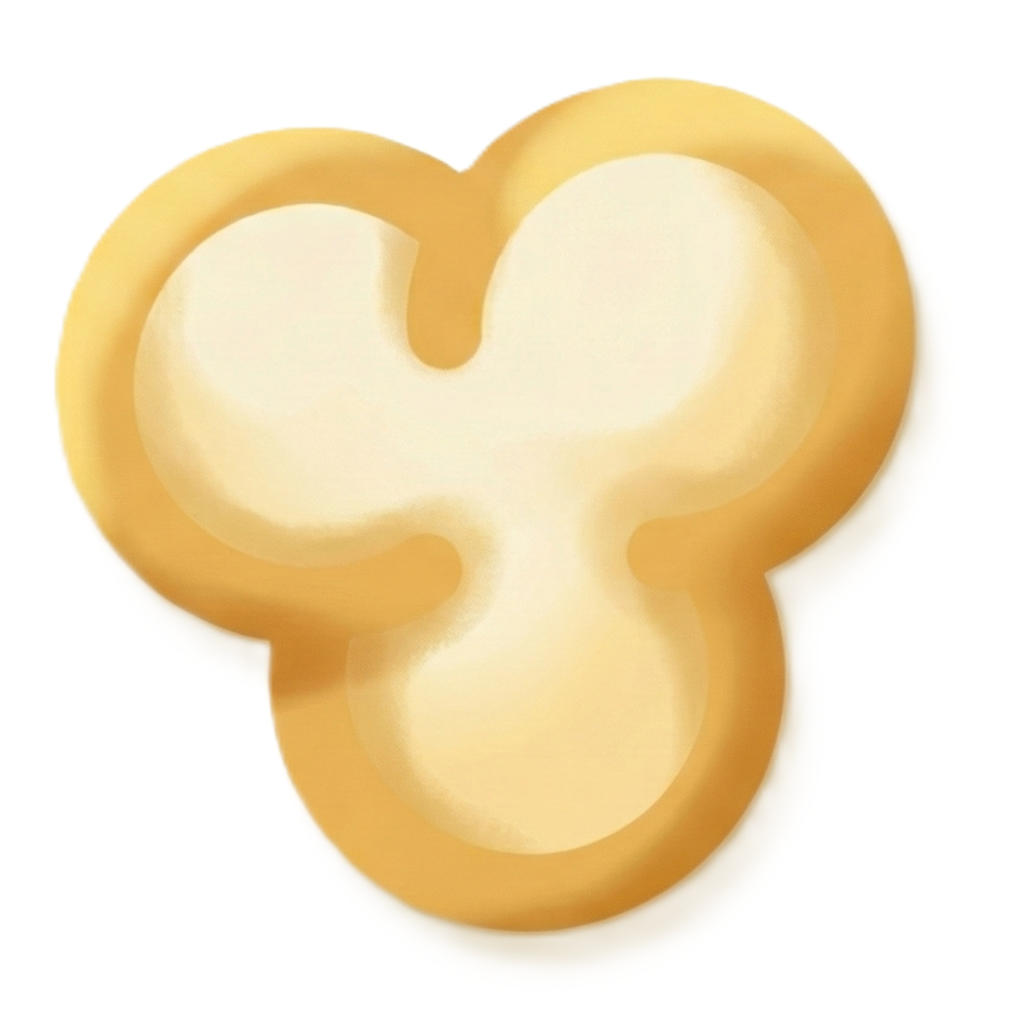
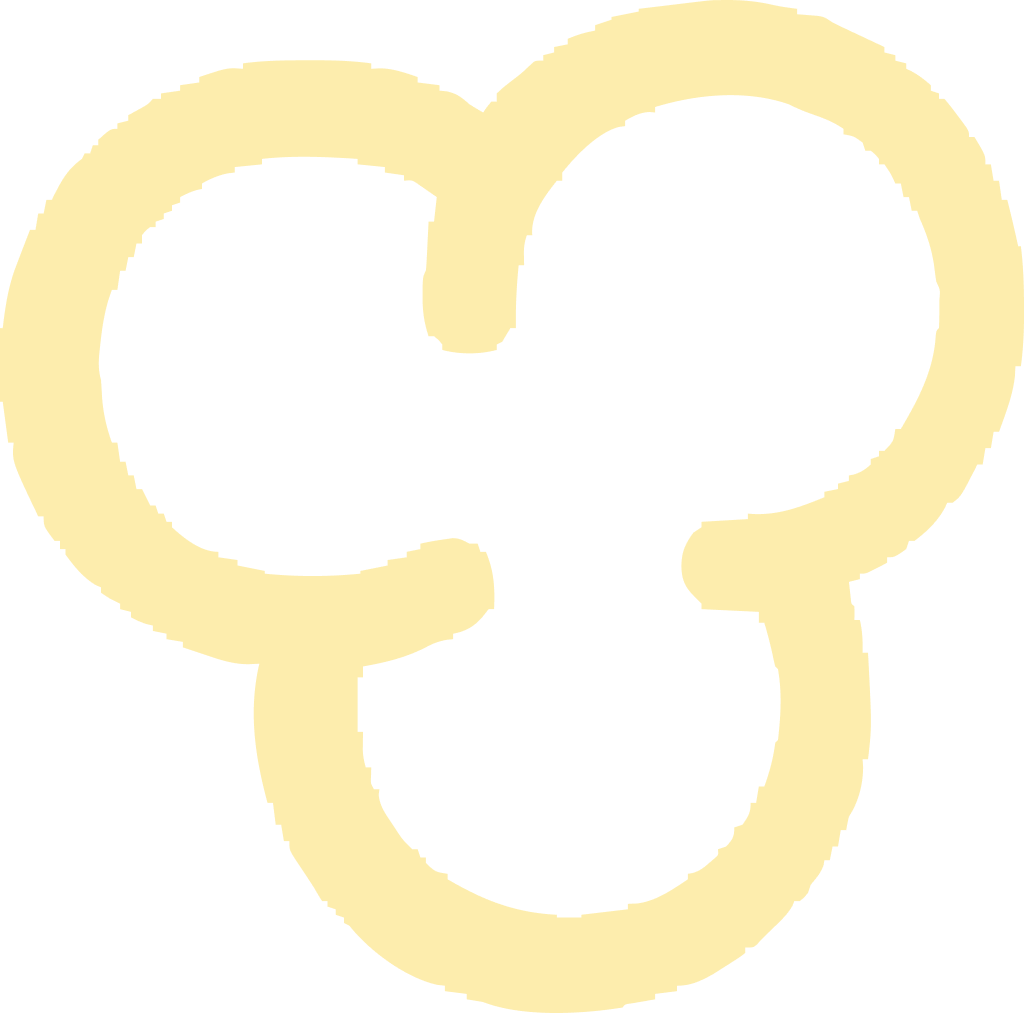
chore: release version 1.0.13

diff --git a/apps/desktop/src/components/SplashScreen.tsx b/apps/desktop/src/components/SplashScreen.tsx
@@ -1,5 +1,4 @@
 import React, { useEffect, useState } from 'react';
-import logo from '../assets/logo.png';
 
 interface SplashScreenProps {
     isReady: boolean;
@@ -9,11 +8,13 @@ interface SplashScreenProps {
 const SplashScreen: React.FC<SplashScreenProps> = ({ isReady, onComplete }) => {
     const [minTimeElapsed, setMinTimeElapsed] = useState(false);
     const [isVisible, setIsVisible] = useState(true);
+    const [fillLogo, setFillLogo] = useState(false);
 
     useEffect(() => {
         // Minimum time to show splash (e.g. 2s)
         const timeout = setTimeout(() => {
             setMinTimeElapsed(true);
+            setFillLogo(true); // Trigger fill after drawing
         }, 2000);
         return () => clearTimeout(timeout);
     }, []);
@@ -21,9 +22,13 @@ const SplashScreen: React.FC<SplashScreenProps> = ({ isReady, onComplete }) => {
     useEffect(() => {
         // Only start fade out when both data is ready AND min time elapsed
         if (isReady && minTimeElapsed) {
-            setIsVisible(false);
-            const t = setTimeout(onComplete, 500); // Wait for transition
-            return () => clearTimeout(t);
+            // Wait a bit for the fill animation to be enjoyed
+            const exitDelay = setTimeout(() => {
+                setIsVisible(false);
+                const t = setTimeout(onComplete, 500); // Wait for transition
+                return () => clearTimeout(t);
+            }, 1200);
+            return () => clearTimeout(exitDelay);
         }
     }, [isReady, minTimeElapsed, onComplete]);
 
@@ -38,47 +43,40 @@ const SplashScreen: React.FC<SplashScreenProps> = ({ isReady, onComplete }) => {
             transition: 'opacity 0.5s ease-in-out',
             pointerEvents: 'none'
         }}>
-            <div style={{ position: 'relative', width: '300px' }}>
-                <img
-                    src={logo}
-                    alt="Popcorn"
+            <div style={{ position: 'relative', width: '300px', height: '300px' }}>
+                <svg
+                    viewBox="0 0 87.698227 44.908371"
+                    fill="none"
+                    xmlns="http://www.w3.org/2000/svg"
                     style={{
                         width: '100%',
-                        objectFit: 'contain',
-                        filter: 'drop-shadow(0 0 20px rgba(229, 9, 20, 0.3))'
+                        height: '100%',
+                        filter: 'drop-shadow(0 0 20px rgba(242, 180, 140, 0.35))'
                     }}
-                />
-
-                {/* Shimmer Effect */}
-                <div className="logo-shimmer" style={{
-                    position: 'absolute', top: 0, left: 0, width: '100%', height: '100%',
-                    background: 'linear-gradient(to right, transparent 0%, rgba(255,255,255,0.1) 40%, rgba(255,255,255,0.4) 50%, rgba(255,255,255,0.1) 60%, transparent 100%)',
-                    transform: 'skewX(-20deg) translateX(-150%)',
-                    animation: 'shimmer 2s infinite',
-                    pointerEvents: 'none',
-                    mixBlendMode: 'overlay'
-                }} />
+                >
+                    <g transform="translate(-61.821707,-127.98417)">
+                        <path
+                            d="m 71.484686,172.64451 c -0.167485,-0.16749 -0.304949,-0.37346 -0.305473,-0.45771 -5.25e-4,-0.0843 -0.07809,-0.73853 -0.17237,-1.45395 -0.09428,-0.71541 -0.279348,-2.31179 -0.411267,-3.54751 -0.131919,-1.23572 -0.397605,-3.6569 -0.590415,-5.3804 -0.609808,-5.45103 -1.426506,-14.21467 -1.426506,-15.30725 0,-1.0769 -1.123242,-0.26347 -3.896905,2.82208 -1.807817,2.01109 -2.249633,2.20699 -2.676011,1.18652 -0.612076,-1.4649 0.258227,-2.88091 3.281088,-5.33845 7.457883,-6.06313 14.586228,-6.74021 17.412649,-1.65394 2.89851,5.216 -0.553872,11.73088 -8.563767,16.1604 -0.617462,0.34146 -1.132981,0.62941 -1.145597,0.6399 -0.02135,0.0177 0.171803,1.35937 0.784945,5.45213 0.38107,2.54367 0.577878,3.68085 0.854366,4.93663 0.299675,1.36109 0.256971,1.46142 -0.788565,1.8526 -1.110012,0.41531 -1.996349,0.44877 -2.356172,0.089 z m 2.269443,-14.82123 c 8.080209,-4.88112 9.672109,-14.10988 2.641815,-15.31544 -1.696548,-0.29093 -5.508666,0.81911 -5.282173,1.53809 0.03444,0.10934 0.143648,1.13002 0.242676,2.26819 0.271704,3.12277 1.146244,10.99147 1.310972,11.79549 0.07038,0.34351 0.02372,0.3558 1.08671,-0.28633 z m 23.917005,11.89092 c -0.63393,-0.13231 -0.79882,-0.43284 -0.88466,-1.61241 -0.36772,-5.05323 -1.59562,-13.39189 -1.97201,-13.39189 -0.0537,0 -0.19953,0.19955 -0.32407,0.44344 -0.26293,0.51492 -1.44727,1.68188 -1.9937,1.96445 -0.40323,0.20852 -0.43073,0.29279 -0.56479,1.73088 -0.49774,5.3392 -5.49294,7.75834 -7.567303,3.66478 -1.31476,-2.59455 -1.028179,-7.2888 0.54076,-8.85774 0.190642,-0.19064 0.346621,-0.44669 0.346621,-0.569 0,-0.8174 1.043028,-1.99575 2.133235,-2.41 2.336331,-0.88773 3.914999,0.72916 4.547087,4.65718 0.13152,0.81733 1.291,-0.19114 2.04484,-1.77851 0.471,-0.99178 0.4017,-1.51839 -0.6443,-4.89617 -0.48177,-1.55576 -0.47305,-1.64867 0.1862,-1.985 1.49024,-0.76026 2.37391,-0.0738 2.79508,2.17114 0.12315,0.65646 0.22195,0.60802 0.68953,-0.33807 1.41143,-2.85583 4.416466,-3.89174 6.180886,-2.1307 3.62723,3.62029 1.16122,12.24231 -3.594436,12.56736 -1.5814,0.1081 -1.83959,-1.33175 -0.28261,-1.57602 2.789686,-0.43767 4.382876,-6.33195 2.340276,-8.65834 -1.36937,-1.55963 -2.998236,-0.66403 -3.923376,2.15718 -0.58179,1.77415 -0.59852,2.062 -0.25082,4.31615 0.16552,1.07312 0.51868,3.38787 0.78478,5.1439 0.26611,1.75602 0.63784,4.15059 0.82607,5.32127 0.54273,3.37548 0.53743,3.28539 0.21515,3.66006 -0.31765,0.36929 -0.99516,0.53823 -1.62844,0.40606 z m -9.2666,-7.39404 c 0.749664,-0.35573 1.307669,-1.53785 1.572508,-3.33131 0.160551,-1.08723 0.196354,-1.04648 -0.973234,-1.10787 -1.203313,-0.0632 -1.919286,-0.37568 -2.705888,-1.18112 -0.641071,-0.65642 -0.691186,-0.6125 -0.691186,0.60574 0,3.28436 1.348938,5.70209 2.7978,5.01456 z m 1.598435,-6.42775 c -0.260153,-2.8215 -1.436464,-4.50778 -2.442639,-3.5016 -0.968353,0.96835 -0.130639,3.23435 1.399152,3.78467 0.806489,0.29012 1.089264,0.21341 1.043487,-0.28307 z m 19.253871,-1.41369 c -5.41277,-1.07315 -4.14003,-13.17913 1.4279,-13.58188 1.73629,-0.12559 3.00892,2.57404 2.11797,4.49284 -0.58196,1.25336 -2.11974,0.537 -1.8232,-0.84932 0.56269,-2.63059 -0.76545,-3.05006 -2.04125,-0.64469 -1.8336,3.45704 -0.83268,8.56747 1.67801,8.56747 2.40087,0 4.44039,-3.29725 4.49837,-7.2724 0.0392,-2.68599 0.45927,-4.30399 1.35804,-5.23053 0.17459,-0.17999 0.35365,-0.52346 0.39791,-0.76326 0.29353,-1.59046 2.53158,-2.86379 4.02862,-2.29207 1.16783,0.446 2.13201,1.99496 2.47612,3.97789 0.21006,1.2105 0.17619,1.1942 0.95371,0.45886 1.02961,-0.97377 1.41349,-1.86546 1.4644,-3.40154 0.0584,-1.76246 0.0111,-1.92706 -0.62896,-2.19021 -1.67965,-0.69053 -1.35722,-4.33533 0.38351,-4.33533 0.66519,0 1.32441,0.98237 1.33,1.98196 0.003,0.51729 0.11546,0.58339 1.23982,0.72798 3.02989,0.38966 3.33642,0.78568 3.48565,4.50334 0.0761,1.89482 0.12391,2.27136 0.35749,2.81317 0.97346,2.25798 2.99086,-0.13783 3.66329,-4.35043 0.13148,-0.82369 0.11592,-1.02583 -0.21845,-2.83707 -0.4129,-2.23664 -0.4299,-2.1512 0.58821,-2.95597 1.19118,-0.94157 1.37065,-0.7789 1.6042,1.45398 0.18935,1.81031 0.3211,2.50148 0.42139,2.21055 0.0336,-0.0975 0.22061,-0.8472 0.41551,-1.66589 1.6518,-6.93858 5.94002,-7.12761 6.47097,-0.28524 0.41681,5.37141 2.46782,4.46813 3.44291,-1.51628 0.37589,-2.30691 1.42563,-2.03511 1.1139,0.28841 -1.05198,7.84118 -6.19519,9.90072 -6.75758,2.706 -0.24327,-3.11214 -0.59798,-3.83889 -1.59956,-3.27726 -1.1704,0.65628 -2.3422,4.74702 -2.46307,8.59854 -0.0697,2.22239 -2.02883,3.44999 -2.26904,1.42182 -0.0922,-0.77808 -0.13535,-0.75554 -0.65444,0.34147 -1.45871,3.08269 -4.37343,3.90066 -5.67095,1.59146 -0.45095,-0.80257 -0.64619,-1.82855 -0.79163,-4.16015 -0.15618,-2.50357 -0.40341,-2.94812 -1.76022,-3.16508 -0.50197,-0.0803 -0.50197,-0.0803 -0.50211,1.26516 -3.7e-4,3.44136 -0.49158,5.47731 -1.1602,4.80869 -0.11235,-0.11235 -0.2223,-0.0477 -0.50796,0.2989 -0.20051,0.24325 -0.67053,0.65006 -1.04449,0.90401 -0.67992,0.46172 -0.67992,0.46172 -0.75498,1.50442 -0.36285,5.0406 -4.65744,8.01876 -7.03821,4.88079 -0.43428,-0.5724 -0.60957,-0.69883 -0.60957,-0.43966 0,0.31497 -1.03306,2.27907 -1.57835,3.00083 -1.27126,1.68267 -3.4581,2.73008 -5.04368,2.41572 z m 10.89113,-6.06899 c 0.72773,-0.48791 1.30681,-1.96154 1.4276,-3.63287 0.0384,-0.53213 0.0384,-0.53213 -0.95194,-0.6142 -1.24761,-0.10338 -2.05103,-0.47685 -2.78718,-1.29562 -0.66857,-0.74362 -0.71839,-0.65787 -0.61868,1.06478 0.19997,3.45451 1.49799,5.43815 2.9302,4.47791 z m 1.36277,-5.85188 c 0.30151,-0.19663 -0.29116,-2.80576 -0.81334,-3.58063 -0.95217,-1.41292 -2.3587,-0.18101 -1.80462,1.58056 0.37216,1.18321 1.15797,1.85596 2.42562,2.07665 0.0325,0.006 0.11907,-0.0288 0.19234,-0.0766 z"
+                            stroke="#FDEDAD"
+                            strokeWidth="0.5"
+                            strokeLinecap="round"
+                            strokeLinejoin="round"
+                            style={{
+                                fill: fillLogo ? '#FDEDAD' : 'transparent',
+                                transition: 'fill 1s ease-in-out',
+                                strokeDasharray: 2000,
+                                strokeDashoffset: 0,
+                                animation: 'draw 2s ease-in-out forwards'
+                            }}
+                        />
+                    </g>
+                </svg>
             </div>
 
-            {/* Loading Indicator */}
-            <div style={{
-                marginTop: '40px',
-                width: '40px', height: '40px',
-                border: '3px solid rgba(255,255,255,0.1)',
-                borderTopColor: '#e50914',
-                borderRadius: '50%',
-                animation: 'spin 1s linear infinite'
-            }} />
-
             <style>{`
-                @keyframes shimmer {
-                    0% { transform: skewX(-20deg) translateX(-150%); }
-                    60% { transform: skewX(-20deg) translateX(150%); }
-                    100% { transform: skewX(-20deg) translateX(150%); }
-                }
-                @keyframes spin { 
-                    0% { transform: rotate(0deg); } 
-                    100% { transform: rotate(360deg); } 
+                @keyframes draw {
+                    0% { stroke-dashoffset: 100; }
+                    100% { stroke-dashoffset: 0; }
                 }
             `}</style>
         </div>

diff --git a/apps/desktop/src/components/DetailsPanel.tsx b/apps/desktop/src/components/DetailsPanel.tsx
@@ -256,7 +256,7 @@ const DetailsPanel: React.FC<DetailsPanelProps> = ({ movie, isOpen, onClose, onS
                     }}>
                         <div style={{
                             width: '40px', height: '40px',
-                            border: '3px solid rgba(255,255,255,0.1)', borderTopColor: '#e50914',
+                            border: '3px solid rgba(255,255,255,0.1)', borderTopColor: 'var(--primary-color)',
                             borderRadius: '50%', animation: 'spin 0.8s linear infinite', marginBottom: '1rem'
                         }} />
                         <p>Loading details...</p>
@@ -403,8 +403,8 @@ const DetailsPanel: React.FC<DetailsPanelProps> = ({ movie, isOpen, onClose, onS
                                                                     }}
                                                                     style={{
                                                                         display: 'block', width: '100%', textAlign: 'left',
-                                                                        padding: '12px 16px', background: selectedSeason === s.season_number ? 'rgba(229, 9, 20, 0.1)' : 'transparent',
-                                                                        color: selectedSeason === s.season_number ? '#e50914' : '#ddd',
+                                                                        padding: '12px 16px', background: selectedSeason === s.season_number ? 'rgba(181, 150, 110, 0.1)' : 'transparent',
+                                                                        color: selectedSeason === s.season_number ? 'var(--primary-color)' : '#ddd',
                                                                         border: 'none', cursor: 'pointer', fontSize: '0.9rem',
                                                                         borderBottom: '1px solid #2a2a2a', transition: 'background 0.2s'
                                                                     }}
@@ -444,7 +444,7 @@ const DetailsPanel: React.FC<DetailsPanelProps> = ({ movie, isOpen, onClose, onS
                                                                     }}>
                                                                         <div style={{
                                                                             height: '100%', width: `${getEpisodeProgress(selectedSeason, ep.episode_number)}%`,
-                                                                            background: '#e50914'
+                                                                            background: 'var(--primary-color)'
                                                                         }} />
                                                                     </div>
                                                                 )}
@@ -479,7 +479,7 @@ const DetailsPanel: React.FC<DetailsPanelProps> = ({ movie, isOpen, onClose, onS
                                                                         <button
                                                                             onClick={() => onWebStream(movie.id, selectedSeason, ep.episode_number)}
                                                                             style={{
-                                                                                background: '#e50914', border: 'none', color: 'white',
+                                                                                background: 'var(--primary-color)', border: 'none', color: 'black',
                                                                                 padding: '4px 10px', borderRadius: '4px', fontSize: '0.8rem',
                                                                                 cursor: 'pointer', fontWeight: 600
                                                                             }}
@@ -490,7 +490,7 @@ const DetailsPanel: React.FC<DetailsPanelProps> = ({ movie, isOpen, onClose, onS
                                                                 </div>
                                                                 {loadingEpisodeTorrents ? (
                                                                     <div style={{ display: 'flex', alignItems: 'center', gap: '10px', color: '#777' }}>
-                                                                        <div style={{ width: '16px', height: '16px', border: '2px solid #555', borderTopColor: '#e50914', borderRadius: '50%', animation: 'spin 1s linear infinite' }} />
+                                                                        <div style={{ width: '16px', height: '16px', border: '2px solid #555', borderTopColor: 'var(--primary-color)', borderRadius: '50%', animation: 'spin 1s linear infinite' }} />
                                                                         <span>Searching high-quality streams...</span>
                                                                     </div>
                                                                 ) : (
@@ -516,7 +516,7 @@ const DetailsPanel: React.FC<DetailsPanelProps> = ({ movie, isOpen, onClose, onS
                                                                                     {getEpisodeProgress(selectedSeason, ep.episode_number, t.magnet) > 0 && (
                                                                                         <div style={{
                                                                                             position: 'absolute', bottom: 0, left: 0, height: '4px',
-                                                                                            background: '#e50914', width: `${getEpisodeProgress(selectedSeason, ep.episode_number, t.magnet)}%`
+                                                                                            background: 'var(--primary-color)', width: `${getEpisodeProgress(selectedSeason, ep.episode_number, t.magnet)}%`
                                                                                         }} />
                                                                                     )}
                                                                                 </button>
@@ -540,8 +540,8 @@ const DetailsPanel: React.FC<DetailsPanelProps> = ({ movie, isOpen, onClose, onS
                                                     onClick={() => !movie.inCinemas && onWebStream(movie.id)}
                                                     disabled={!!movie.inCinemas}
                                                     style={{
-                                                        background: movie.inCinemas ? '#333' : '#e50914',
-                                                        border: 'none', color: 'white',
+                                                        background: movie.inCinemas ? '#333' : 'var(--primary-color)',
+                                                        border: 'none', color: 'black',
                                                         padding: '6px 12px', borderRadius: '4px', fontSize: '0.85rem',
                                                         cursor: movie.inCinemas ? 'not-allowed' : 'pointer',
                                                         fontWeight: 600,
@@ -555,8 +555,8 @@ const DetailsPanel: React.FC<DetailsPanelProps> = ({ movie, isOpen, onClose, onS
                                         </div>
                                         {movie.inCinemas ? (
                                             <div style={{
-                                                padding: '2rem', border: '1px border #333', background: 'rgba(255,0,0,0.1)',
-                                                borderRadius: '8px', textAlign: 'center', color: '#ffaaaa'
+                                                padding: '2rem', border: '1px border #333', background: 'rgba(181,150,110,0.1)',
+                                                borderRadius: '8px', textAlign: 'center', color: '#FDEDAD'
                                             }}>
                                                 <h4 style={{ marginBottom: '0.5rem' }}>Only In Theaters</h4>
                                                 <p style={{ fontSize: '0.9rem', opacity: 0.8 }}>
@@ -587,7 +587,7 @@ const DetailsPanel: React.FC<DetailsPanelProps> = ({ movie, isOpen, onClose, onS
                                                             {getMovieProgress(t.magnet) > 0 && (
                                                                 <div style={{
                                                                     position: 'absolute', bottom: 0, left: 0, height: '4px',
-                                                                    background: '#e50914', width: `${getMovieProgress(t.magnet)}%`
+                                                                    background: 'var(--primary-color)', width: `${getMovieProgress(t.magnet)}%`
                                                                 }} />
                                                             )}
                                                         </button>

diff --git a/apps/desktop/src/App.tsx b/apps/desktop/src/App.tsx
@@ -13,7 +13,8 @@ import VideoPlayer from './components/VideoPlayer';
 import WebPlayer from './components/WebPlayer';
 import PosterCard from './components/PosterCard';
 import type { Movie } from './data/movies';
-import logo from './assets/logo.png';
+import logo from './assets/logo.svg';
+import meghaLogo from './assets/megha.svg';
 import './index.css';
 
 interface CategorySection {
@@ -396,7 +397,7 @@ function App() {
           {/* ... spinner code ... */}
           <div style={{
             width: '50px', height: '50px',
-            border: '4px solid #E50914', borderTopColor: 'transparent',
+            border: '4px solid var(--primary-color)', borderTopColor: 'transparent',
             borderRadius: '50%', animation: 'spin 1s linear infinite'
           }} />
           <p style={{ marginTop: '1rem', color: '#fff' }}>{loadingMessage}</p>
@@ -529,6 +530,21 @@ function App() {
               )) : (
                 !loading && <div style={{ minHeight: '50vh' }}></div>
               )}
+            </div>
+            {/* Footer */}
+            <div style={{
+              padding: '0.5rem 4rem',
+              display: 'flex', alignItems: 'center', justifyContent: 'center', gap: '1rem',
+              opacity: 1, marginTop: '-1.5rem', marginBottom: '2rem'
+            }}>
+              <img src={logo} alt="Popcorn" style={{ height: '24px' }} />
+              <span style={{ fontSize: '0.9rem', color: '#888' }}>powered by</span>
+              <img
+                src={meghaLogo}
+                alt="Megha"
+                style={{ height: '24px', cursor: 'pointer' }}
+                onClick={() => window.electronAPI?.openExternal('https://github.com/MeghaJayalath')}
+              />
             </div>
           </>
         )}

diff --git a/apps/desktop/src/components/PosterCard.tsx b/apps/desktop/src/components/PosterCard.tsx
@@ -38,7 +38,7 @@ const PosterCard: React.FC<PosterCardProps> = ({ movie, onPlay, onRemove, progre
                 }}>
                     <div style={{
                         height: '100%', width: `${progress}%`,
-                        background: '#e50914'
+                        background: 'var(--primary-color)'
                     }} />
                 </div>
             )}
@@ -47,7 +47,7 @@ const PosterCard: React.FC<PosterCardProps> = ({ movie, onPlay, onRemove, progre
             {movie.inCinemas && (
                 <div style={{
                     position: 'absolute', top: '10px', right: '10px',
-                    background: '#e50914', color: 'white', fontSize: '0.65rem', fontWeight: 'bold',
+                    background: 'var(--primary-color)', color: 'black', fontSize: '0.65rem', fontWeight: 'bold',
                     padding: '3px 6px', borderRadius: '3px', textTransform: 'uppercase',
                     zIndex: 20, boxShadow: '0 2px 4px rgba(0,0,0,0.5)'
                 }}>

diff --git a/apps/desktop/vite.config.electron.ts b/apps/desktop/vite.config.electron.ts
@@ -1,0 +1,36 @@
+import { defineConfig } from 'vite';
+import { builtinModules } from 'module';
+
+export default defineConfig({
+    define: {
+        // Fix "ReferenceError: self is not defined" for dependencies that expect browser-like env
+        self: 'global',
+    },
+    build: {
+        outDir: 'dist-electron',
+        emptyOutDir: true,
+        minify: false,
+        commonjsOptions: {
+            ignoreTryCatch: false,
+            transformMixedEsModules: true,
+        },
+        lib: {
+            entry: {
+                main: 'electron/main.ts',
+                preload: 'electron/preload.ts',
+            },
+            formats: ['cjs'],
+        },
+        target: 'node18',
+        rollupOptions: {
+            external: [
+                'electron',
+                ...builtinModules,
+                ...builtinModules.map((m) => `node:${m}`),
+            ],
+            output: {
+                entryFileNames: '[name].js',
+            },
+        },
+    },
+});

diff --git a/apps/desktop/src/components/UpdateOverlay.tsx b/apps/desktop/src/components/UpdateOverlay.tsx
@@ -24,7 +24,7 @@ const UpdateOverlay: React.FC<UpdateOverlayProps> = ({ message }) => {
             padding: '2rem',
             textAlign: 'center'
         }}>
-            <h1 style={{ fontSize: '2.5rem', marginBottom: '1rem', color: '#e50914' }}>Update Required</h1>
+            <h1 style={{ fontSize: '2.5rem', marginBottom: '1rem', color: 'var(--primary-color)' }}>Update Required</h1>
             <p style={{ fontSize: '1.2rem', marginBottom: '2rem', maxWidth: '600px' }}>
                 {message || defaultMessage}
             </p>
@@ -38,7 +38,7 @@ const UpdateOverlay: React.FC<UpdateOverlayProps> = ({ message }) => {
                 style={{
                     padding: '12px 30px',
                     fontSize: '1.1rem',
-                    backgroundColor: '#e50914',
+                    backgroundColor: 'var(--primary-color)',
                     color: 'white',
                     border: 'none',
                     borderRadius: '4px',

diff --git a/apps/desktop/src/components/MaintenanceOverlay.tsx b/apps/desktop/src/components/MaintenanceOverlay.tsx
@@ -23,7 +23,7 @@ const MaintenanceOverlay: React.FC<MaintenanceOverlayProps> = ({ message }) => {
             textAlign: 'center'
         }}>
             <div style={{ marginBottom: '2rem' }}>
-                <svg width="80" height="80" viewBox="0 0 24 24" fill="none" stroke="#e50914" strokeWidth="2" strokeLinecap="round" strokeLinejoin="round">
+                <svg width="80" height="80" viewBox="0 0 24 24" fill="none" stroke="var(--primary-color)" strokeWidth="2" strokeLinecap="round" strokeLinejoin="round">
                     <path d="M14.7 6.3a1 1 0 0 0 0 1.4l1.6 1.6a1 1 0 0 0 1.4 0l3.77-3.77a6 6 0 0 1-7.94 7.94l-6.91 6.91a2.12 2.12 0 0 1-3-3l6.91-6.91a6 6 0 0 1 7.94-7.94l-3.76 3.76z"></path>
                 </svg>
             </div>

diff --git a/apps/desktop/src/components/Hero.tsx b/apps/desktop/src/components/Hero.tsx
@@ -109,7 +109,7 @@ const Hero: React.FC<HeroProps> = ({ movies, onMoreInfo }) => {
                     <div style={{ display: 'flex', alignItems: 'center', gap: '1rem', color: 'rgba(255,255,255,0.7)' }}>
                         <div style={{
                             width: '30px', height: '30px',
-                            border: '3px solid rgba(255,255,255,0.1)', borderTopColor: '#e50914',
+                            border: '3px solid rgba(255,255,255,0.1)', borderTopColor: 'var(--primary-color)',
                             borderRadius: '50%', animation: 'spin 0.8s linear infinite'
                         }} />
                         <span style={{ fontSize: '1.2rem' }}>Loading preview...</span>

diff --git a/apps/desktop/src/components/Top10Card.tsx b/apps/desktop/src/components/Top10Card.tsx
@@ -70,7 +70,7 @@ const Top10Card: React.FC<Top10CardProps> = ({ movie, rank, onPlay }) => {
                 {movie.inCinemas && (
                     <div style={{
                         position: 'absolute', top: '10px', right: '10px',
-                        background: '#e50914', color: 'white', fontSize: '0.65rem', fontWeight: 'bold',
+                        background: 'var(--primary-color)', color: 'black', fontSize: '0.65rem', fontWeight: 'bold',
                         padding: '3px 6px', borderRadius: '3px', textTransform: 'uppercase',
                         zIndex: 5, boxShadow: '0 2px 4px rgba(0,0,0,0.5)'
                     }}>

diff --git a/apps/web/src/index.css b/apps/web/src/index.css
@@ -5,7 +5,8 @@
 
   color-scheme: dark;
   color: rgba(255, 255, 255, 0.87);
-  background-color: #141414; /* Netflix-ish dark */
+  background-color: #141414;
+  /* Netflix-ish dark */
 
   font-synthesis: none;
   text-rendering: optimizeLegibility;
@@ -38,9 +39,11 @@ button {
   cursor: pointer;
   transition: border-color 0.25s;
 }
+
 button:hover {
   border-color: #646cff;
 }
+
 button:focus,
 button:focus-visible {
   outline: 4px auto -webkit-focus-ring-color;

diff --git a/apps/desktop/dist-electron/polyfill.js b/apps/desktop/dist-electron/polyfill.js
@@ -1,0 +1,10 @@
+"use strict";
+var __importDefault = (this && this.__importDefault) || function (mod) {
+    return (mod && mod.__esModule) ? mod : { "default": mod };
+};
+Object.defineProperty(exports, "__esModule", { value: true });
+const ws_1 = __importDefault(require("ws"));
+// Polyfill globals for dependencies that expect a browser-like environment
+global.WebSocket = ws_1.default;
+global.self = global;
+//# sourceMappingURL=polyfill.js.map

diff --git a/apps/desktop/src/index.css b/apps/desktop/src/index.css
@@ -1,7 +1,7 @@
 :root {
   --bg-color: #141414;
   --text-color: #e5e5e5;
-  --primary-red: #e50914;
+  --primary-color: #FDEDAD;
   --secondary-bg: #181818;
   --hover-z-index: 99;
   --card-width: 250px;
